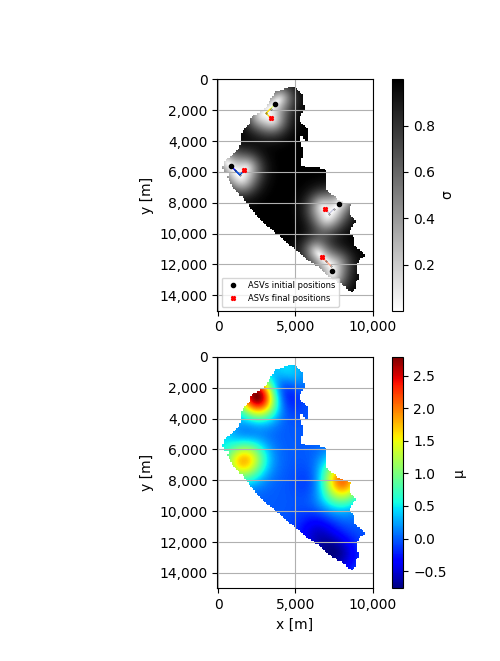
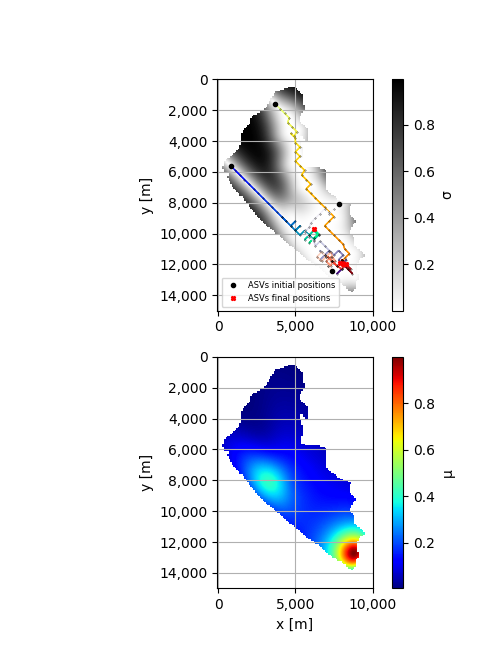
contamination areas

diff --git a/PSO/pso_function.py b/PSO/pso_function.py
@@ -41,8 +41,10 @@ def createPart():
 class PSOEnvironment(gym.Env):
 
     def __init__(self, resolution, ys, method, initial_seed, initial_position, reward_function='mse',
-                 behavioral_method=0, type_error='all_map'):
+                 behavioral_method=0, type_error='all_map', stage="exploration"):
         self.type_error = type_error
+        self.stage = "exploration"
+        self.dist_pre = 0
         self.f = None
         self.k = None
         self.population = 4
@@ -552,7 +554,7 @@ class PSOEnvironment(gym.Env):
             self.error = mean_squared_error(y_true=self.max_peaks_bench, y_pred=self.max_peaks_mu)
         return self.error
 
-    def step(self, action):
+    def step_stage_exploration(self, action):
 
         """
         The output "out" of the method "step" is the positions of the particles (drones) after traveling 1000 m
@@ -586,7 +588,7 @@ class PSOEnvironment(gym.Env):
         """
         dis_steps = 0
         dist_ant = np.mean(self.distances)
-        dist_pre = np.max(self.distances)
+        self.dist_pre = np.max(self.distances)
         self.n_data = 1
         self.f += 1
 
@@ -622,7 +624,6 @@ class PSOEnvironment(gym.Env):
                     if self.n_data > 4:
                         self.n_data = 1
 
-                # self.MSE_data1, self.it = self.util.mse(self.g, self.bench_array, self.mu)
                 self.error = self.calculate_error()
                 self.error_data.append(self.error)
                 self.it.append(self.g)
@@ -641,30 +642,111 @@ class PSOEnvironment(gym.Env):
         self.return_state()
 
         reward = self.calculate_reward()
-        # self.ERROR_data = self.calculate_error()
-        # self.error_comparison.append(self.ERROR_data)
-        # self.error_distance.append(np.max(self.distances))
 
         self.logbook.record(gen=self.g, evals=len(self.pop), **self.stats.compile(self.pop))
-        # print(self.logbook.stream)
 
-        if ((self.distances) >= 150).any() or np.max(self.distances) == dist_pre:
+        if (self.distances >= 150).any() or np.max(self.distances) == self.dist_pre:
             done = True
-            # wb = openpyxl.Workbook()
-            # hoja = wb.active
-            # # print(self.mse_comparison)
-            # hoja.append(self.mse_comparison)
-            # wb.save('../Test/Epsilon/MSE' + str(self.seed) + '.xlsx')
-            #
-            # wb1 = openpyxl.Workbook()
-            # hoja1 = wb1.active
-            # # print(self.mse_comparison)
-            # hoja1.append(self.mse_distance)
-            # wb1.save('../Test/Epsilon/Distance' + str(self.seed) + '.xlsx')
 
         else:
             done = False
+        return self.state, reward, done, {}
 
+    def step_stage_exploitation(self, action):
+
+        """
+        The output "out" of the method "step" is the positions of the particles (drones) after traveling 1000 m
+        (scaled).
+
+        method = 0 -> out = scalar vector
+        out = [px_1, py_1, px_2, py_2, px_3, py_3, px_4, py_4, lbx_1, lby_1, lbx_2, lby_2, lbx_3, lby_3, lbx_4, lby_4,
+               gbx, gby, sbx, sgy, mbx, mby]
+               where:
+               px: x coordinate of the drone position
+               py: y coordinate of the drone position
+               lbx: x coordinate of the local best
+               lby: y coordinate of the local best
+               gbx: x coordinate of the global best
+               gby: y coordinate of the global best
+               sbx: x coordinate of the sigma best (maximum uncertainty)
+               sby: y coordinate of the sigma best (maximum uncertainty)
+               mbx: x coordinate of the mean best (maximum contamination)
+               mby: y coordinate of the mean best (maximum contamination)
+
+        method = 1 -> out = images
+
+        :param c1: weight that determinate the importance of the local best component
+        :param c2: weight that determinate the importance of the global best component
+        :param c3: weight that determinate the importance of the maximum uncertainty component
+        :param c4: weight that determinate the importance of the maximum contamination component
+        :param lam: ratio of one of the different length scales [Equation 7
+        (https://doi.org/10.3390/electronics10131605)]
+        :param post_array: refers to the posterior length scale of the surrogate model [Equation 7
+        (https://doi.org/10.3390/electronics10131605)]
+        """
+        dis_steps = 0
+        dist_ant = np.mean(self.distances)
+        self.dist_pre = np.max(self.distances)
+        self.n_data = 1
+        self.f += 1
+
+        while dis_steps < 10:
+
+            previous_dist = np.max(self.distances)
+
+            for part in self.pop:
+                self.toolbox.update(action[0], action[1], action[2], action[3], part)
+
+            for part in self.pop:
+                self.ok, part = self.pso_fitness(part)
+                self.part_ant, self.distances = self.util.distance_part(self.g, self.n_data, part, self.part_ant,
+                                                                        self.distances, self.array_part, dfirst=False)
+
+                self.n_data += 1
+                if self.n_data > 4:
+                    self.n_data = 1
+
+            if (np.mean(self.distances) - self.last_sample) >= (np.min(self.post_array) * self.lam):
+                self.k += 1
+                self.ok = True
+                self.last_sample = np.mean(self.distances)
+
+                for part in self.pop:
+                    self.ok, part = self.pso_fitness(part)
+
+                    self.post_array = self.gp_regression()
+
+                    self.samples += 1
+
+                    self.n_data += 1
+                    if self.n_data > 4:
+                        self.n_data = 1
+
+                self.error = self.calculate_error()
+                self.error_data.append(self.error)
+                self.it.append(self.g)
+
+                self.sigma_best, self.mu_best = self.sigma_max()
+
+                self.ok = False
+
+            dis_steps = np.mean(self.distances) - dist_ant
+            if np.max(self.distances) == previous_dist:
+                break
+
+            self.save_data()
+            self.g += 1
+
+        self.return_state()
+
+        reward = self.calculate_reward()
+
+        self.logbook.record(gen=self.g, evals=len(self.pop), **self.stats.compile(self.pop))
+
+        if (self.distances >= 150).any() or np.max(self.distances) == self.dist_pre:
+            done = True
+        else:
+            done = False
         return self.state, reward, done, {}
 
     def return_state(self):
@@ -695,6 +777,19 @@ class PSOEnvironment(gym.Env):
             self.n_data += 1
             if self.n_data > 4:
                 self.n_data = 1
+
+    def step(self, action):
+        if self.stage == "exploration":
+            action = np.array([2.0187, 0, 3.2697, 0])
+            self.state, reward, done, dic = self.step_stage_exploration(action)
+            if (self.distances >= 100).any() or np.max(self.distances) == self.dist_pre:
+                self.stage = "exploitation"
+        elif self.stage == "exploitation":
+            action = np.array([3.6845, 1.5614, 0, 3.1262])
+
+
+
+
 
     def data_out(self):
 

diff --git a/Environment/plot.py b/Environment/plot.py
@@ -5,6 +5,7 @@ from scipy import interpolate
 from matplotlib.collections import LineCollection
 from mpl_toolkits.mplot3d.art3d import Line3DCollection
 from Environment.map import Map
+from matplotlib.colors import LinearSegmentedColormap
 
 
 class Plots():
@@ -16,6 +17,8 @@ class Plots():
         self.bench_function = bench_function
         self.grid_min = grid_min
         self.grid_or = Map(self.xs, ys).black_white()
+        self.X1 = np.arange(0, self.grid.shape[1], 1)
+        self.Y1 = np.arange(0, self.grid.shape[0], 1)
 
     def Z_var_mean(self, mu, sigma):
         Z_un = np.zeros([self.grid.shape[0], self.grid.shape[1]])
@@ -278,3 +281,34 @@ class Plots():
             ax.scatter(x, y, z, 'k')
             if plot_waypoints:
                 ax.plot(x, y, 'kx')
+
+    def detection_areas(self, mu, sigma):
+        cmap = LinearSegmentedColormap.from_list('name', ['green', 'yellow', 'red'])
+        Z_var, Z_mean = Plots(self.xs, self.ys, self.X_test, self.grid, self.bench_function, self.grid_min).Z_var_mean(
+            mu, sigma)
+
+        fig, axs = plt.subplots()
+
+        im3 = axs.imshow(Z_mean.T, interpolation='none', origin='lower', cmap=cmap)
+        plt.colorbar(im3, ax=axs, label='µ', shrink=1.0)
+        axs.set_xlabel("x [m]")
+        axs.set_ylabel("y [m]")
+        axs.set_yticks([0, 20, 40, 60, 80, 100, 120, 140])
+        axs.set_xticks([0, 50, 100])
+        axs.set_ylim([self.ys, 0])
+        axs.set_aspect('equal')
+        axs.grid(True)
+        ticks_x = ticker.FuncFormatter(lambda x, pos: format(int(x * 100), ','))
+        axs.xaxis.set_major_formatter(ticks_x)
+
+        ticks_y = ticker.FuncFormatter(lambda x, pos: format(int(x * 100), ','))
+        axs.yaxis.set_major_formatter(ticks_y)
+
+        #cax = ax.contourf(self.Y1, self.X1, Z_mean.T, cmap=cmap)
+        #cbar = fig.colorbar(cax)
+        #cbar.set_label('Z-Values')
+
+        #for angle in range(0, 360):
+         #   ax.view_init(90, angle)
+
+        plt.show()

diff --git a/Comparison/BestMDPI.py b/Comparison/BestMDPI.py
@@ -47,8 +47,8 @@ df_bounds: data of the limits of the surface where the drone can travel
 # Variables initialization
 
 
-#action = np.array([3.6845, 1.5614, 0, 3.1262]) # Syracuse (Exploitation)
-action = np.array([2.0187, 0, 3.2697, 0]) #Rome (Exploration)
+action = np.array([3.6845, 1.5614, 0, 3.1262]) # Syracuse (Exploitation)
+#action = np.array([2.0187, 0, 3.2697, 0]) #Rome (Exploration)
 #action = np.array([0, 0, 0, 3])
 
 initial_position = np.array([[0, 0],
@@ -61,7 +61,7 @@ start_time = time.time()
 # PSO initialization
 
 method = 0
-pso = PSOEnvironment(resolution, ys, method, initial_seed=1000001, initial_position=initial_position,
+pso = PSOEnvironment(resolution, ys, method, initial_seed=1000000, initial_position=initial_position,
                      reward_function='inc_mse', type_error='contamination')
 
 # Gaussian process initialization
@@ -96,7 +96,8 @@ for i in range(1):
     plot = Plots(xs, ys, X_test, grid, bench_function, grid_min)
     #plot.gaussian(mu, sigma, part_ant)
     #plot.plot_classic(mu, sigma, part_ant)
-    #plot.benchmark()
+    plot.benchmark()
+    plot.detection_areas(mu, sigma)
     distances = pso.distances_data()
 
     # if i == 0:
@@ -127,6 +128,6 @@ mu, error_data, it, part_ant, y_data, grid, bench_max = pso.data_out()
 plot = Plots(xs, ys, X_test, grid, bench_function, grid_min)
 plot.plot_classic(mu, sigma, part_ant)
 # plot.gaussian(mu, sigma, part_ant)
-#plot.benchmark()
+plot.benchmark()
 #pso.save_excel()
 # plot.error(error_data, it)

diff --git a/Environment/contamination_areas.py b/Environment/contamination_areas.py
@@ -1,0 +1,38 @@
+import numpy as np
+import matplotlib.pyplot as plt
+from matplotlib.colors import LinearSegmentedColormap
+from Environment.plot import Plots
+import math
+
+
+class DetectContaminationAreas():
+    def __init__(self, X_test, vehicles=4, area=100):
+        self.X_test = X_test
+        self.radio = area / vehicles
+
+    def areas_levels(self, mean):
+        dict_ = {}
+        array_action_zones = list()
+        coordinate_action_zones = list()
+        i = 0
+        for i in range(len(mean)):
+            if mean[i] >= 0.33:
+                array_action_zones.append(mean[i])
+                coordinate_action_zones.append(self.X_test[i])
+        while True:
+            i += 1
+            list_zone = list()
+            max_action_zone = max(array_action_zones)
+            max_coordinate = max_action_zone.index(max_action_zone)
+            x_max = max_coordinate[0]
+            y_max = max_coordinate[1]
+            coordinate_array = np.array(coordinate_action_zones)
+            for i in range(len(array_action_zones)):
+                if math.sqrt(
+                        (x_max - coordinate_array[i, 0]) ** 2 - (y_max - coordinate_array[i, 1]) ** 2) <= self.radio:
+                    list_zone.append(array_action_zones)
+                    del array_action_zones[i]
+                    del coordinate_action_zones[i]
+            dict_["action_zone%s" % i] = list_zone
+            if len(array_action_zones) == 0:
+                break

diff --git a/Benchmark/benchmark_functions.py b/Benchmark/benchmark_functions.py
@@ -158,9 +158,14 @@ class Benchmark_function():
           #      map_created1[i,j] = self.shekel_arg((X[i,j], Y[i,j]))
         #map_created = np.fromiter(map(self.shekel_arg, zip(X.flat, Y.flat, self.grid.flat)), dtype=np.float,
          #               count=X.shape[0] * X.shape[1]).reshape(X.shape)
-        meanz = np.nanmean(map_created1)
-        stdz = np.nanstd(map_created1)
-        map_created = (map_created1 - meanz) / stdz
+        #meanz = np.nanmean(map_created1)
+        #stdz = np.nanstd(map_created1)
+        #map_created2 = (map_created1 - meanz) / stdz
+        map_max = np.max(map_created1)
+        map_min = np.min(map_created1)
+        map_created = list(map(lambda x: (x - map_min)/(map_max - map_min), map_created1))
+        map_created = np.array(map_created)
+        #print(map_created)
 
         #fig = plt.figure()
         #ax1 = fig.add_subplot(111)
